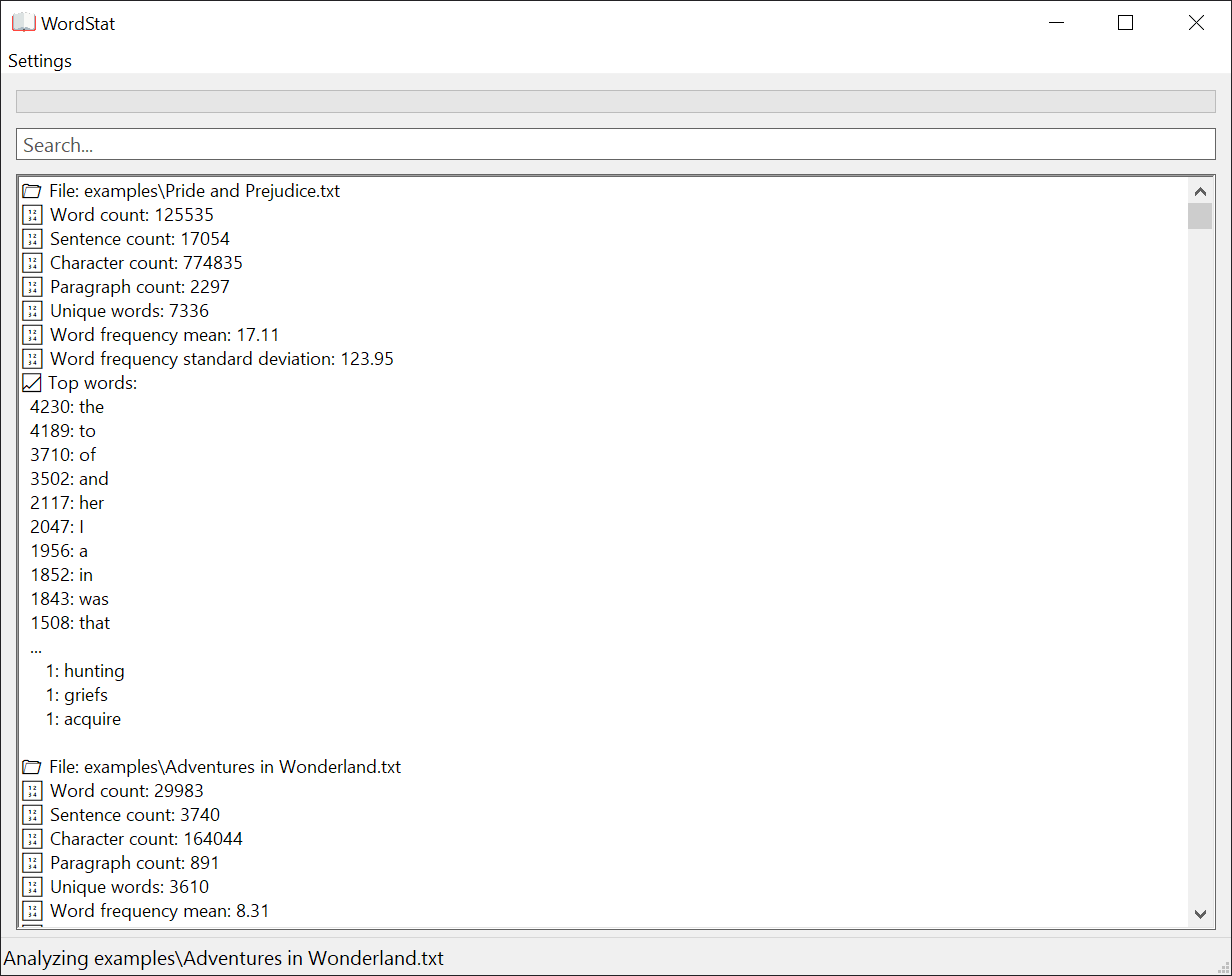
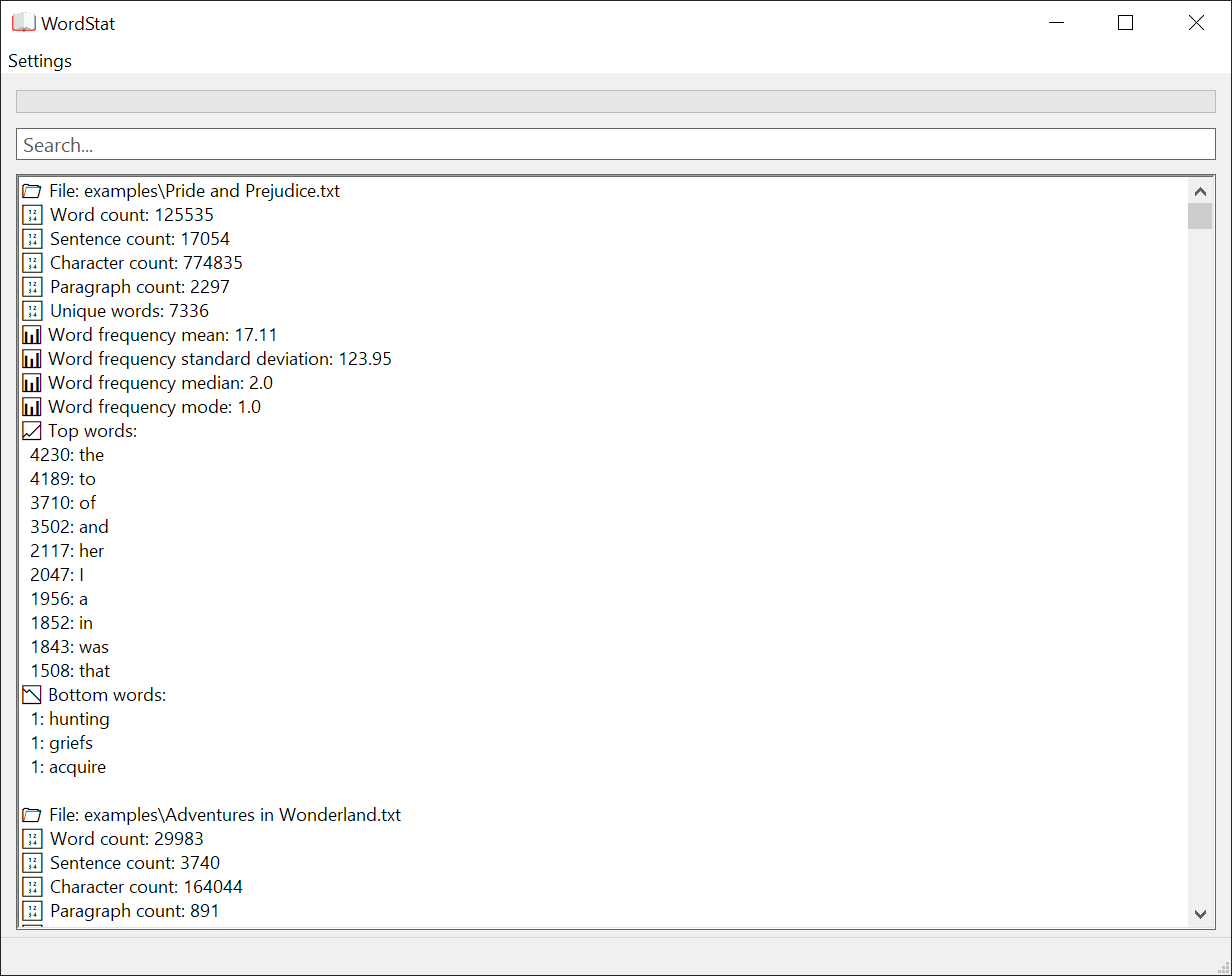
Report bottom words in separate section

Changed region(s): [[0.0, 0.3381, 0.3701, 1.0]]

diff --git a/src/main_gui.rs b/src/main_gui.rs
@@ -232,9 +232,13 @@ pub struct App {
     dpi: Arc<AtomicU32>,
 }
 
-fn analysis_words_to_string(analysis: &Analysis, top_words: usize, bottom_words: usize) -> String {
+fn analysis_words_to_string(
+    analysis: &Analysis,
+    top_words: usize,
+    bottom_words: usize,
+) -> (String, String) {
     if analysis.word_freq.is_empty() {
-        return "".to_owned();
+        return ("".to_owned(), "".to_owned());
     }
     let pad = format!("{}", analysis.word_freq[0].0).len();
     let mut buffer = String::new();
@@ -247,23 +251,33 @@ fn analysis_words_to_string(analysis: &Analysis, top_words: usize, bottom_words:
         buffer.push_str(string);
         buffer.push('\n');
     }
+    let mut buffer_bottom = String::new();
     if bottom_words > 0
         && top_words != 0
         && top_words < analysis.word_count
         && top_words < analysis.word_freq.len()
     {
-        buffer.push_str("  ...\n");
+        let pad = format!(
+            "{}",
+            analysis
+                .word_freq
+                .iter()
+                .nth_back(0)
+                .map(|n| n.0)
+                .unwrap_or(0)
+        )
+        .len();
         for (i, (freq, string)) in analysis.word_freq.iter().rev().enumerate() {
             if bottom_words > 0 && i >= bottom_words {
                 break;
             };
-            buffer.push_str(&format!("  {:width$}", freq, width = pad));
-            buffer.push_str(": ");
-            buffer.push_str(string);
-            buffer.push('\n');
+            buffer_bottom.push_str(&format!("  {:width$}", freq, width = pad));
+            buffer_bottom.push_str(": ");
+            buffer_bottom.push_str(string);
+            buffer_bottom.push('\n');
         }
     }
-    buffer
+    (buffer, buffer_bottom)
 }
 
 fn analysis_to_string(
@@ -274,7 +288,7 @@ fn analysis_to_string(
     search_text: &str,
 ) -> String {
     let mut buffer = String::new();
-    let analysis_string = if search_text.is_empty() {
+    let (analysis_string, analysis_string_bottom) = if search_text.is_empty() {
         analysis_words_to_string(analysis, top_words, bottom_words)
     } else {
         let mut tmp_analysis = analysis.clone();
@@ -322,6 +336,14 @@ fn analysis_to_string(
         }
         buffer.push_str(":\n");
         buffer.push_str(&analysis_string);
+        if !analysis_string_bottom.is_empty() {
+            buffer.push_str("📉 Bottom words");
+            if !search_text.is_empty() {
+                buffer.push_str(" (filtered)")
+            }
+            buffer.push_str(":\n");
+            buffer.push_str(&analysis_string_bottom);
+        }
     };
     buffer
 }

diff --git a/src/main_cli.rs b/src/main_cli.rs
@@ -51,7 +51,6 @@ fn print_analysis(analysis: &Analysis, top_words: usize, bottom_words: usize) {
         eprintln!("{}{}", Emoji("⚠ ", ""), style("No words in file").red());
         return;
     }
-    let pad = format!("{}", analysis.word_freq[0].0).len();
     println!(
         "{}Word count: {}",
         Emoji("🔢 ", ""),
@@ -98,6 +97,7 @@ fn print_analysis(analysis: &Analysis, top_words: usize, bottom_words: usize) {
         style(&format!("{:.1}", analysis.word_dist_mode)).blue()
     );
     println!("{}Top words:", Emoji("📈 ", ""));
+    let pad = format!("{}", analysis.word_freq[0].0).len();
     for (i, (freq, string)) in analysis.word_freq.iter().enumerate() {
         if top_words > 0 && i >= top_words {
             break;
@@ -111,7 +111,17 @@ fn print_analysis(analysis: &Analysis, top_words: usize, bottom_words: usize) {
         );
     }
     if bottom_words > 0 && top_words != 0 && top_words < analysis.word_count {
-        println!("  ...");
+        let pad = format!(
+            "{}",
+            analysis
+                .word_freq
+                .iter()
+                .nth_back(0)
+                .map(|n| n.0)
+                .unwrap_or(0)
+        )
+        .len();
+        println!("{}Bottom words:", Emoji("📉 ", ""));
         for (i, (freq, string)) in analysis.word_freq.iter().rev().enumerate() {
             if bottom_words > 0 && i >= bottom_words {
                 break;
